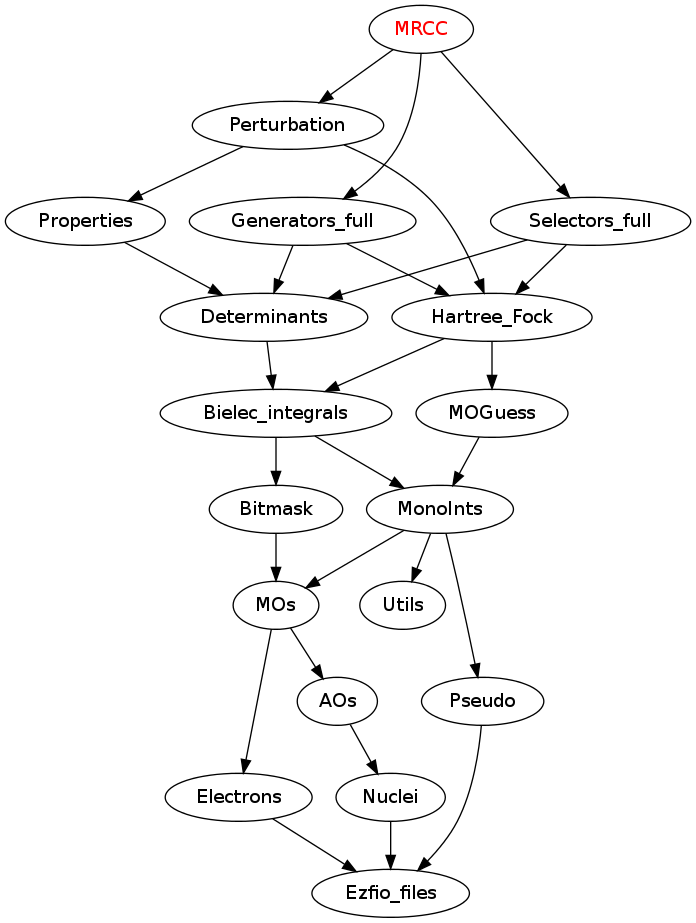
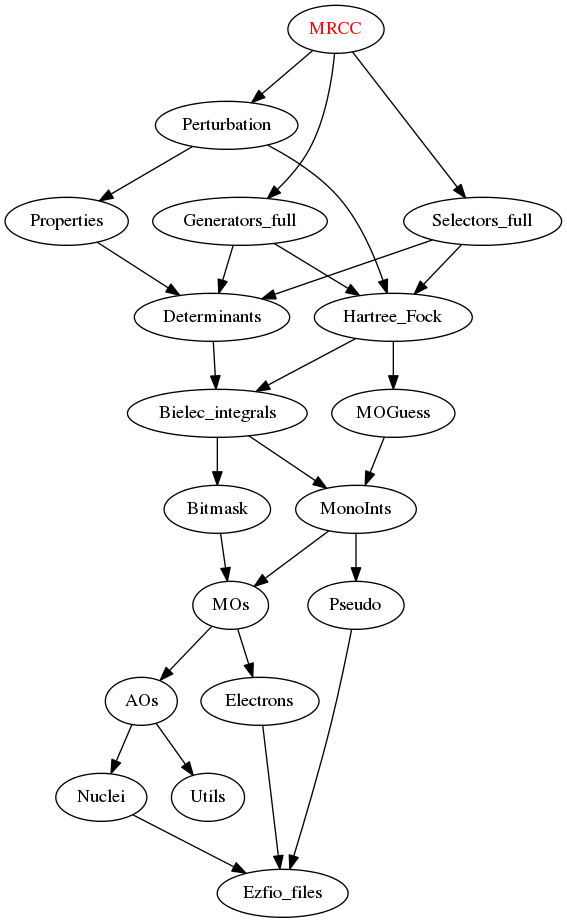
Add all.png to git

diff --git a/scripts/update_README.py b/scripts/update_README.py
@@ -2,7 +2,7 @@
 
 """Updates the README.rst file as the include directive is disabled on GitHub."""
 __date__ = "Thu Apr  3 23:06:18 CEST 2014"
-__author__ = "Anthony Scemama <scemama@irsamc.ups-tlse.fr>"
+__author__ = "Anthony Scemama & TApplencourt<scemama@irsamc.ups-tlse.fr>"
 
 
 README = "README.rst"
@@ -20,12 +20,6 @@ header = """
 .. NEEDED_MODULES file.
 
 """
-
-try:
-    # subprocess.check_output("git status".split())
-    has_git = True
-except OSError:
-    has_git = False
 
 
 def fetch_splitted_data():

diff --git a/scripts/module/pydot.py b/scripts/module/pydot.py
@@ -31,7 +31,8 @@ import sys
 try:
     import dot_parser
 except Exception as e:
-    print >> sys.stderr, "Couldn't import dot_parser, loading of dot files will not be possible."
+    pass
+    # print >> sys.stderr, "Couldn't import dot_parser, loading of dot files will not be possible."
 
 
 GRAPH_ATTRIBUTES = set(['Damping', 'K', 'URL', 'aspect', 'bb', 'bgcolor',

diff --git a/scripts/module/module_handler.py b/scripts/module/module_handler.py
@@ -155,7 +155,7 @@ def create_png(l_module):
 
     # Save
     path = '{0}.png'.format("_".join(l_module))
-    print "png saved in {0}".format(path)
+    # print "png saved in {0}".format(path)
     graph.write_png(path)
 
 if __name__ == '__main__':

diff --git a/src/Ezfio_files/README.rst b/src/Ezfio_files/README.rst
@@ -28,6 +28,24 @@ Documentation
   'x' : READ/WRITE, FORMATTED
   .br
 
+`output_cpu_time_0 <http://github.com/LCPQ/quantum_package/tree/master/src/Ezfio_files/output.irp.f#L2>`_
+  Initial CPU and wall times when printing in the output files
+
+`output_wall_time_0 <http://github.com/LCPQ/quantum_package/tree/master/src/Ezfio_files/output.irp.f#L1>`_
+  Initial CPU and wall times when printing in the output files
+
+`write_bool <http://github.com/LCPQ/quantum_package/tree/master/src/Ezfio_files/output.irp.f#L88>`_
+  Write an logical value in output
+
+`write_double <http://github.com/LCPQ/quantum_package/tree/master/src/Ezfio_files/output.irp.f#L58>`_
+  Write a double precision value in output
+
+`write_int <http://github.com/LCPQ/quantum_package/tree/master/src/Ezfio_files/output.irp.f#L73>`_
+  Write an integer value in output
+
+`write_time <http://github.com/LCPQ/quantum_package/tree/master/src/Ezfio_files/output.irp.f#L42>`_
+  Write a time stamp in the output for chronological reconstruction
+
 
 
 

diff --git a/src/MonoInts/README.rst b/src/MonoInts/README.rst
@@ -6,7 +6,6 @@ Needed Modules
 
 * `MOs <http://github.com/LCPQ/quantum_package/tree/master/src/MOs>`_
 * `Pseudo <http://github.com/LCPQ/quantum_package/tree/master/src/Pseudo>`_
-* `Utils <http://github.com/LCPQ/quantum_package/tree/master/src/Utils>`_
 
 Documentation
 =============
@@ -114,6 +113,9 @@ Documentation
 `mo_nucl_elec_integral_per_atom <http://github.com/LCPQ/quantum_package/tree/master/src/MonoInts/pot_mo_ints.irp.f#L30>`_
   mo_nucl_elec_integral_per_atom(i,j,k) = -<MO(i)|1/|r-Rk|MO(j)>
   where Rk is the geometry of the kth atom
+
+`mo_pseudo_integral <http://github.com/LCPQ/quantum_package/tree/master/src/MonoInts/pot_mo_pseudo_ints.irp.f#L1>`_
+  interaction nuclear electron on the MO basis
 
 `save_ortho_mos <http://github.com/LCPQ/quantum_package/tree/master/src/MonoInts/save_ortho_mos.irp.f#L1>`_
   Undocumented

diff --git a/src/FCIdump/README.rst b/src/FCIdump/README.rst
@@ -10,6 +10,9 @@ Documentation
 .. Do not edit this section. It was auto-generated from the
 .. NEEDED_MODULES file.
 
+`fcidump <http://github.com/LCPQ/quantum_package/tree/master/src/FCIdump/fcidump.irp.f#L1>`_
+  Undocumented
+
 
 
 Needed Modules

diff --git a/src/AOs/README.rst b/src/AOs/README.rst
@@ -40,6 +40,7 @@ Needed Modules
 .. NEEDED_MODULES file.
 
 * `Nuclei <http://github.com/LCPQ/quantum_package/tree/master/src/Nuclei>`_
+* `Utils <http://github.com/LCPQ/quantum_package/tree/master/src/Utils>`_
 
 Documentation
 =============
